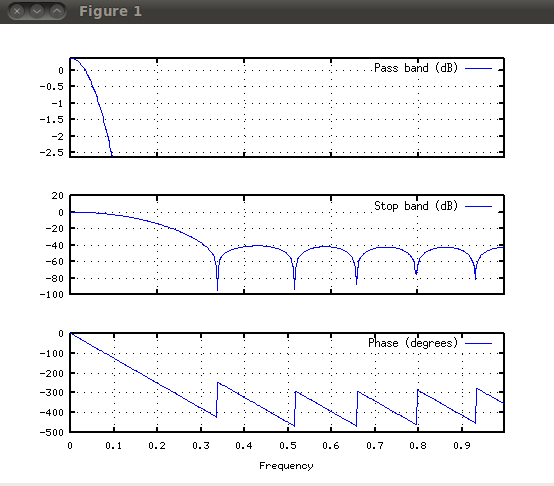
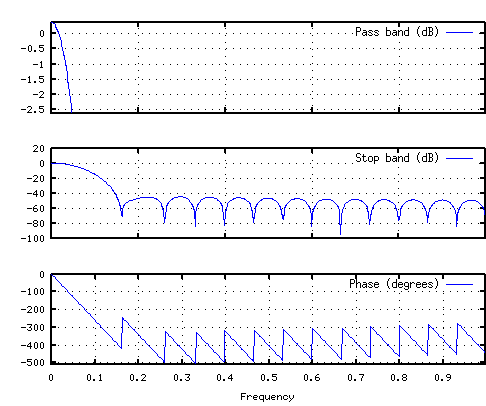
filters updated

diff --git a/d3_js#json#update#filtering/showJams.html b/d3_js#json#update#filtering/showJams.html
@@ -62,59 +62,62 @@
 
   function processDataFilter(rawData){// apply a numerical filter
       var filterCoeffs ={"0c":[],
-                         "3c":[// calculated by Octave as fir1(2,1/15) etc, see http://vdl2-ase.wikispaces.com/HowTo+-+FIR+filter+design+in+GNU+Octave
-                         0.067458,0.868031,0.067458],
-                         "7c":[     0.023053,
-			 0.092622,
-			 0.235048,
-			 0.307435,
-			 0.235048,
-			 0.092622,
-			 0.023053],
-                         "15c":[  0.0079440,
-			 0.0138588,
-			 0.0304523,
-			 0.0563371,
-			 0.0870652,
-			 0.1161922,
-			 0.1370378,
-			 0.1446027,
-			 0.1370378,
-			 0.1161922,
-			 0.0870652,
-			 0.0563371,
-			 0.0304523,
-			 0.0138588,
-			 0.0079440],
-                         "29c":[ 6.3604e-04,
-			   1.3898e-03,
-			   2.8782e-03,
-			   5.5930e-03,
-			   9.9423e-03,
-			   1.6172e-02,
-			   2.4306e-02,
-			   3.4113e-02,
-			   4.5107e-02,
-			   5.6589e-02,
-			   6.7711e-02,
-			   7.7573e-02,
-			   8.5330e-02,
-			   9.0288e-02,
-			   9.1993e-02,
-			   9.0288e-02,
-			   8.5330e-02,
-			   7.7573e-02,
-			   6.7711e-02,
-			   5.6589e-02,
-			   4.5107e-02,
-			   3.4113e-02,
-			   2.4306e-02,
-			   1.6172e-02,
-			   9.9423e-03,
-			   5.5930e-03,
-			   2.8782e-03,
-			   1.3898e-03,
-			   6.3604e-04]};
+                         "3c":[// calculated by Octave as fir1(2,1/30) to have the same boundary as the moving average filter
+                               //etc, see http://vdl2-ase.wikispaces.com/HowTo+-+FIR+filter+design+in+GNU+Octave
+                           0.068876,   0.862436,   0.068876],
+                         "7c":[     0.023845,
+   0.093203,
+   0.232706,
+   0.302737,
+   0.232706,
+   0.093203,
+   0.023845
+],
+                         "15c":[   0.0098575,
+   0.0158317,
+   0.0325502,
+   0.0571536,
+   0.0849150,
+   0.1102465,
+   0.1279264,
+   0.1342632,
+   0.1279264,
+   0.1102465,
+   0.0849150,
+   0.0571536,
+   0.0325502,
+   0.0158317,
+   0.0098575],
+                         "29c":[    0.0040255,
+   0.0048596,
+   0.0069974,
+   0.0105014,
+   0.0153326,
+   0.0213475,
+   0.0283045,
+   0.0358765,
+   0.0436730,
+   0.0512658,
+   0.0582195,
+   0.0641232,
+   0.0686203,
+   0.0714349,
+   0.0723930,
+   0.0714349,
+   0.0686203,
+   0.0641232,
+   0.0582195,
+   0.0512658,
+   0.0436730,
+   0.0358765,
+   0.0283045,
+   0.0213475,
+   0.0153326,
+   0.0105014,
+   0.0069974,
+   0.0048596,
+   0.0040255
+]};
 
 
       var currentFilter=filterCoeffs[widthFilter.toString()+"c"].slice();
